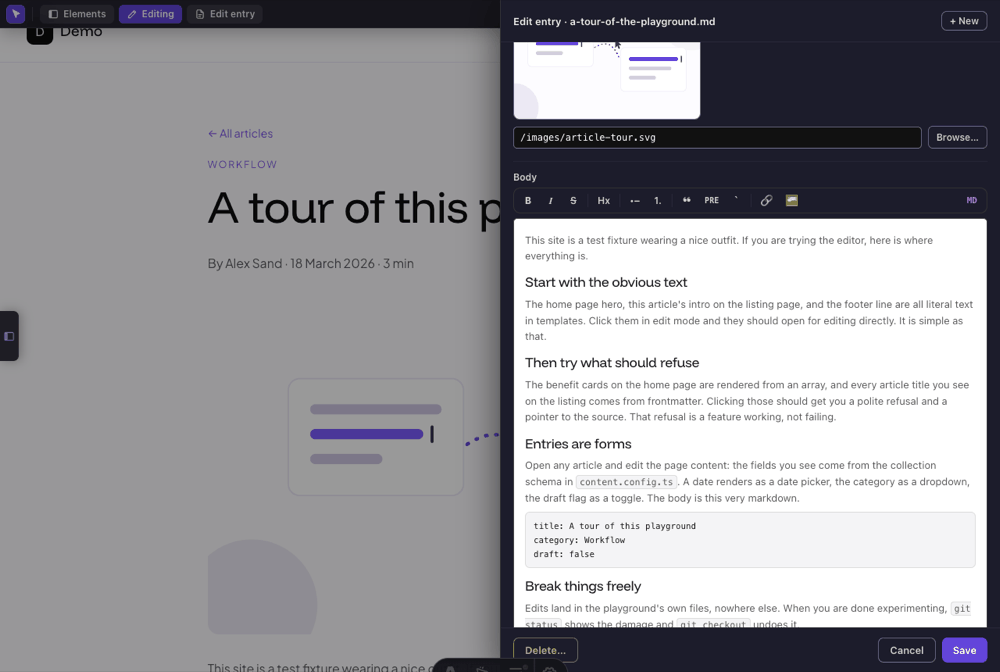
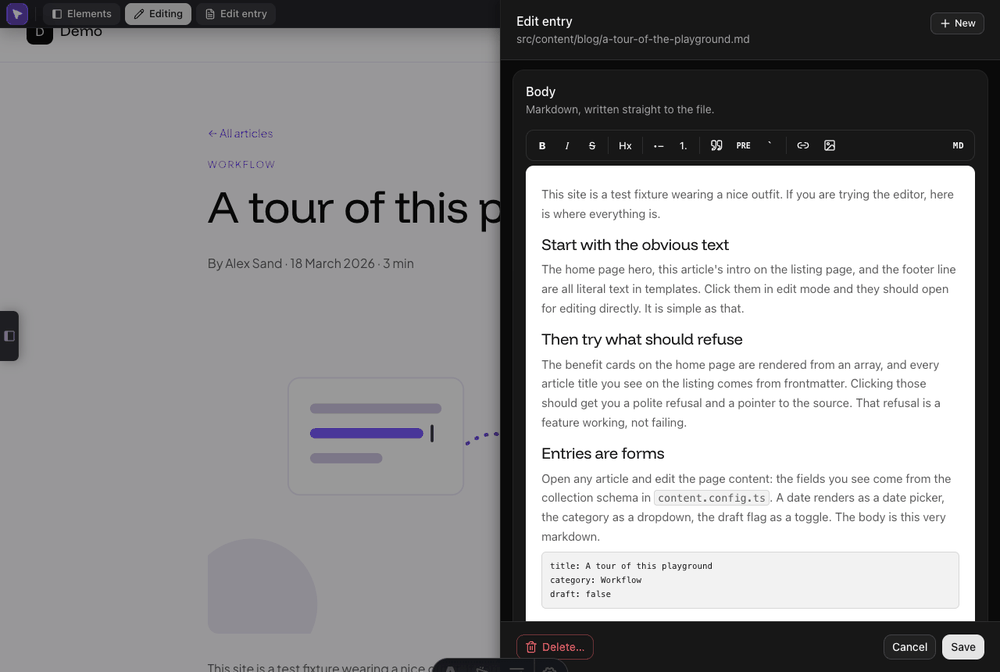
Reshoot the README screenshots against the new overlay
Every image in docs/images/ was taken before the shadcn restyle, so the
README showed the old chrome: 24/26px admin-bar items, borderless outline
buttons, flat runs of controls in the drawers. Same twelve screens, same
recipe -- a 1280x860 playground viewport downscaled to 1000x672 -- so the
framing is unchanged and only the tool's own look moves.

Two shots caught up with behaviour rather than styling. The refusal
notice is now taken on the article page's `By {author} - {fmt(date)} -
{readTime}` line, because the home page's mapped benefit cards no longer
refuse: expression tracing resolves them to `benefits[].title` and opens
an editor. That is also what expression.png shows. The notice itself has
gained a third button, so its alt text names Open template and Edit page
content instead of a single Open source.

expression.png and media-picker.png are refreshed too. Neither is linked
from a doc today, but both are tracked, and a stale pair in the folder is
the thing that goes back into a README by accident.

diff --git a/README.md b/README.md
@@ -38,7 +38,7 @@ Run `npm run dev` and click **Edit page** in the admin bar across the top of the
 
 - **If something is not editable with the tool, it points you to the source.** For components, `set:html`, block-level nested markup, expressions that can't be traced and anything rendered by a package, you get a notice explaining why, plus a jump to the source, rather than a write the tool can't prove is correct.
 
-  ![A notice reading Can't edit this here, explaining the text comes from a template expression, with the source location and an Open source button](docs/images/refusal.png)
+  ![A notice reading Can't edit this here, explaining the text comes from a template expression, with the source location and Open template and Edit page content buttons](docs/images/refusal.png)
 
 - **Images.** Click an image to swap its `src` and edit its `alt`, with a preview and the six most recently added images to hand.
 
